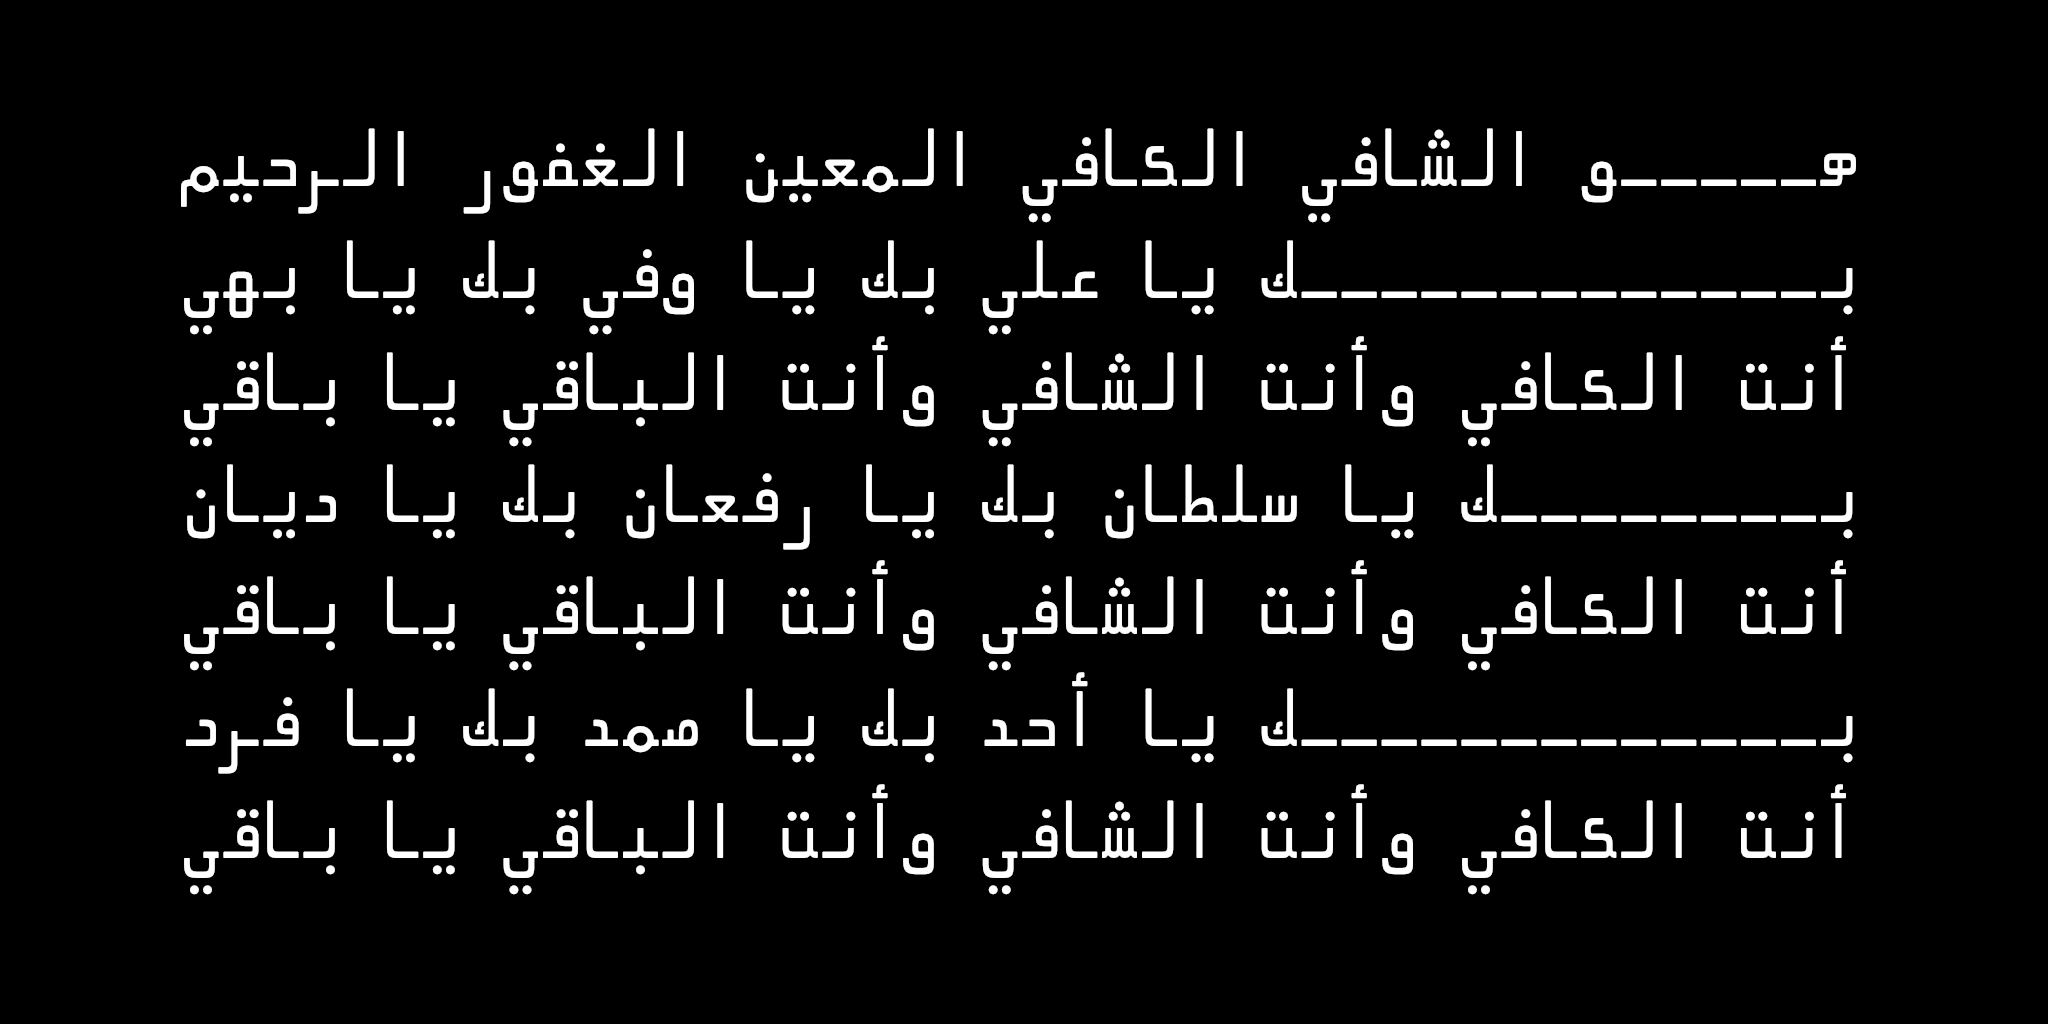
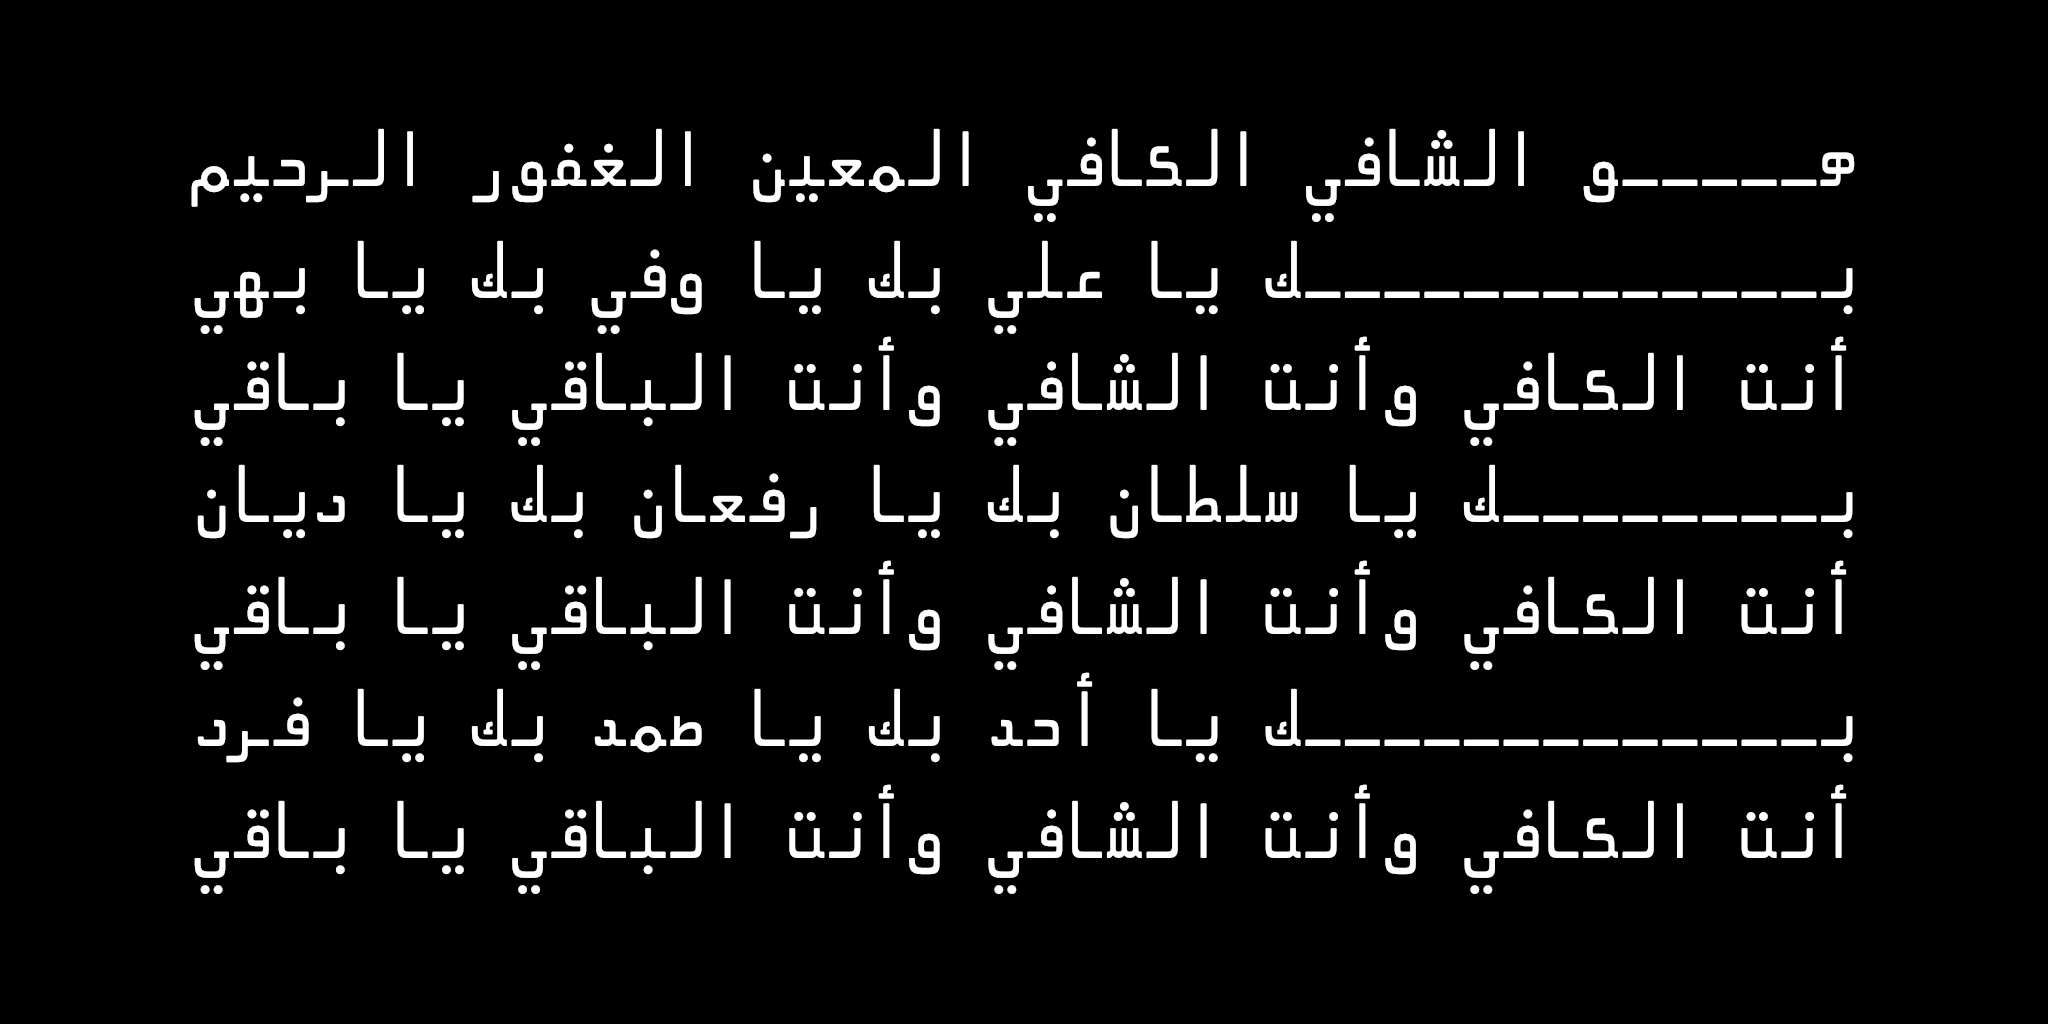
Update wide specimen image 004

diff --git a/documentation/drawbot/wide-image-004.py b/documentation/drawbot/wide-image-004.py
@@ -85,7 +85,7 @@ def draw_main_text():
     fill(1)
     stroke(None)
     font(FONT_PATH)
-    fontSize(78)
+    fontSize(77.5)
     fontVariations(wght = 400)
     # Adjust this line to center main text manually.
     # TODO: This should be done automatically when drawbot-skia

diff --git a/README.md b/README.md
@@ -16,7 +16,6 @@ Hasubi Mono (حاسوبي مونو) is an  condensed horizontal contrast monospa
 
 ![Sample Image](documentation/drawbot/wide-image-002.png)
 ![Sample Image](documentation/drawbot/wide-image-001.png)
-![Sample Image](documentation/drawbot/wide-image-003.png)
 ![Sample Image](documentation/drawbot/wide-image-004.png)
 
 ## About
